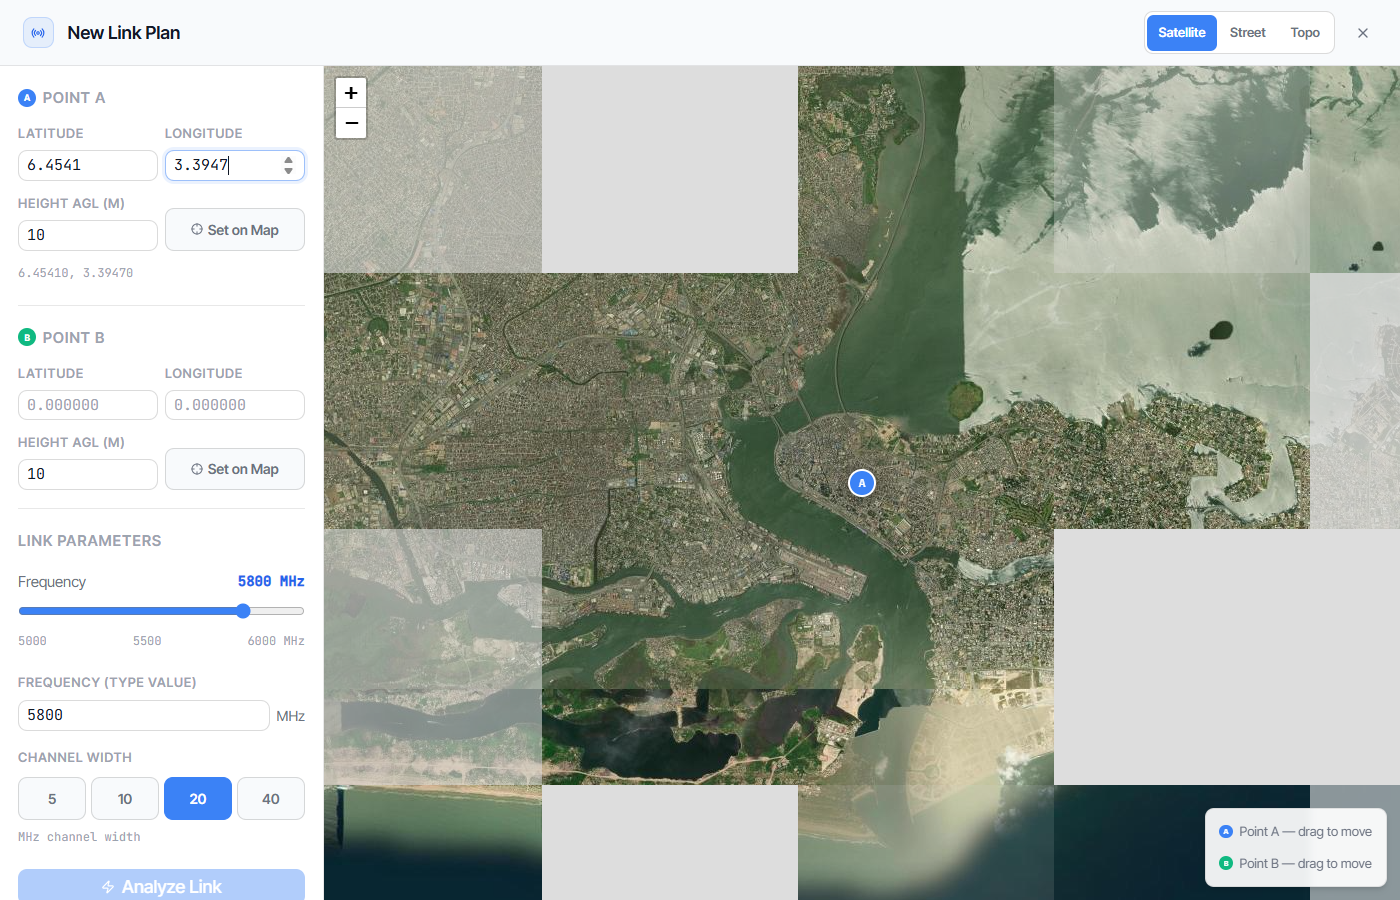
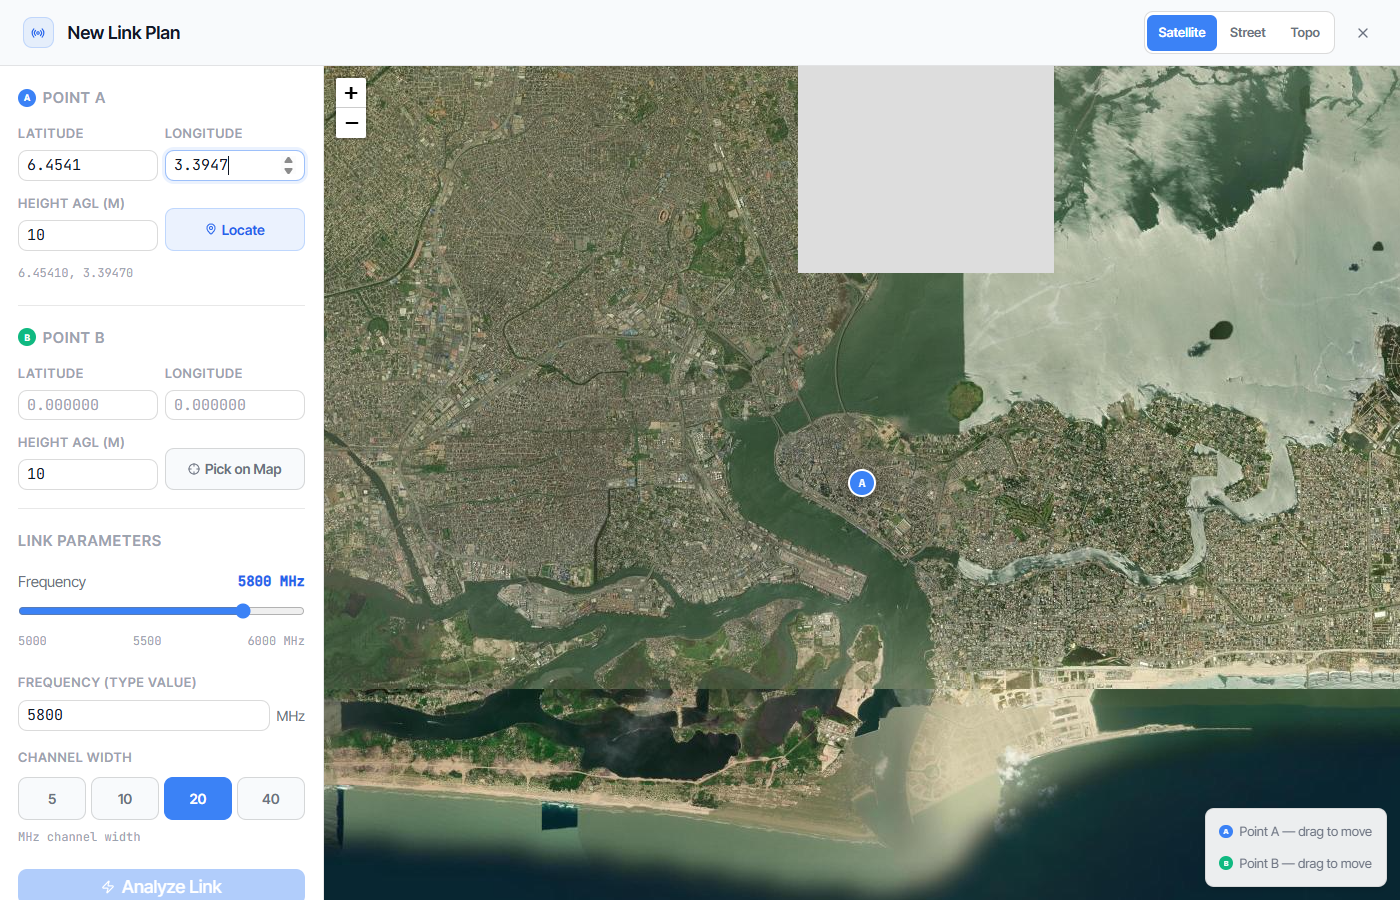
Link Planner 12

diff --git a/frontend/src/components/LinkPlanModal.jsx b/frontend/src/components/LinkPlanModal.jsx
@@ -7,7 +7,7 @@ import {
   ResponsiveContainer, Tooltip,
 } from 'recharts'
 import {
-  X, Radio, Mountain, Zap, Crosshair,
+  X, Radio, Mountain, Zap, Crosshair, MapPin,
   CheckCircle, AlertTriangle, Loader2, Save, ChevronDown, ChevronUp,
 } from 'lucide-react'
 import { toast } from 'react-hot-toast'
@@ -267,15 +267,22 @@ function CoordPanel({ point, label, color, clickMode, onCoordChange, onToggleCli
             <button
               onClick={onToggleClick}
               className="w-full flex items-center justify-center gap-1 py-1.5 rounded-lg font-semibold transition-all"
-              style={isPlacing
-                ? { background: color, color: 'white', border: `1px solid ${color}`, fontSize: 14 }
-                : { background: 'var(--surface-2)', border: '1px solid var(--border-mid)', color: 'var(--text-3)', fontSize: 14 }
+              style={
+                isPlacing
+                  ? { background: color, color: 'white', border: `1px solid ${color}`, fontSize: 14 }
+                  : hasCoord
+                  ? { background: 'rgba(59,130,246,0.10)', border: '1px solid rgba(59,130,246,0.25)', color: '#2563eb', fontSize: 14 }
+                  : { background: 'var(--surface-2)', border: '1px solid var(--border-mid)', color: 'var(--text-3)', fontSize: 14 }
               }
-              onMouseEnter={e => { if (!isPlacing) e.currentTarget.style.borderColor = 'var(--border-strong)' }}
-              onMouseLeave={e => { if (!isPlacing) e.currentTarget.style.borderColor = 'var(--border-mid)' }}
+              onMouseEnter={e => {
+                if (!isPlacing && !hasCoord) e.currentTarget.style.borderColor = 'var(--border-strong)'
+              }}
+              onMouseLeave={e => {
+                if (!isPlacing && !hasCoord) e.currentTarget.style.borderColor = 'var(--border-mid)'
+              }}
             >
-              <Crosshair size={12} />
-              {isPlacing ? 'Placing…' : 'Set on Map'}
+              {isPlacing ? <Crosshair size={12} /> : hasCoord ? <MapPin size={12} /> : <Crosshair size={12} />}
+              {isPlacing ? 'Placing…' : hasCoord ? 'Locate' : 'Pick on Map'}
             </button>
           </div>
         </div>
@@ -490,7 +497,14 @@ export default function LinkPlanModal({ onClose, onSave, initialPlan }) {
                 setPtA(p => ({ ...p, [field]: val }))
                 setResults(null)
               }}
-              onToggleClick={() => setClickMode(clickMode === 'A' ? null : 'A')}
+              onToggleClick={() => {
+                const la = parseFloat(ptA.lat), lna = parseFloat(ptA.lng)
+                if (!isNaN(la) && isFinite(la) && !isNaN(lna) && isFinite(lna)) {
+                  try { mapRef.current?.setView([la, lna], Math.max(mapRef.current.getZoom() || 3, 14)) } catch {}
+                } else {
+                  setClickMode(m => m === 'A' ? null : 'A')
+                }
+              }}
             />
 
             <div style={{ borderTop: '1px solid var(--border)' }} />
@@ -505,7 +519,14 @@ export default function LinkPlanModal({ onClose, onSave, initialPlan }) {
                 setPtB(p => ({ ...p, [field]: val }))
                 setResults(null)
               }}
-              onToggleClick={() => setClickMode(clickMode === 'B' ? null : 'B')}
+              onToggleClick={() => {
+                const lb = parseFloat(ptB.lat), lnb = parseFloat(ptB.lng)
+                if (!isNaN(lb) && isFinite(lb) && !isNaN(lnb) && isFinite(lnb)) {
+                  try { mapRef.current?.setView([lb, lnb], Math.max(mapRef.current.getZoom() || 3, 14)) } catch {}
+                } else {
+                  setClickMode(m => m === 'B' ? null : 'B')
+                }
+              }}
             />
 
             <div style={{ borderTop: '1px solid var(--border)' }} />